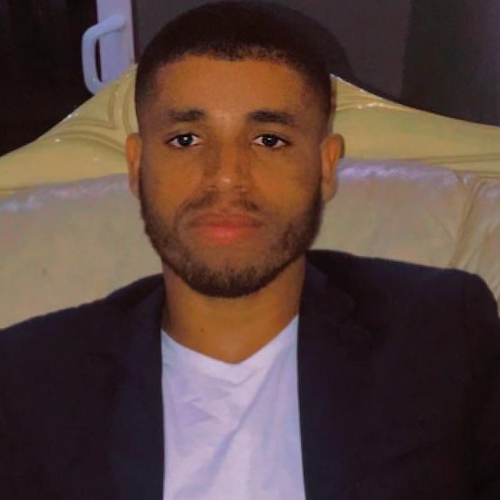
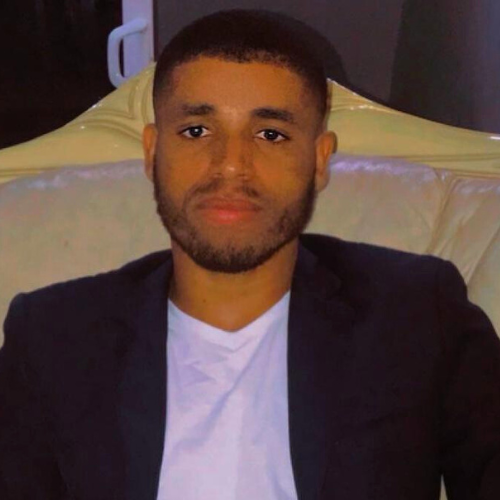
Mise à jour des images

diff --git a/index.html b/index.html
@@ -221,7 +221,7 @@
       <h2>Notre équipe</h2>
       <div class="equipe__list">
         <div class="membre">
-          <img src="ressources/images/ali.jpg" alt="Ali Houssene Silahi" class="membre__photo">
+          <img src="ressources/images/ali.png" alt="Ali Houssene Silahi" class="membre__photo">
           <h3>Ali Houssene Silahi</h3>
           <p class="membre__role">CEO & Ingénieur de données</p>
           <p class="membre__bio">Expert en valorisation de la donnée, Ali accompagne les entreprises dans la
@@ -236,7 +236,7 @@
         </div>
           -->
         <div class="membre">          
-          <img src="ressources/images/halifa.png" alt="Halifa Youssouf" class="membre__photo">
+          <img src="ressources/images/halifa-bg.png" alt="Halifa Youssouf" class="membre__photo">
           <h3>Halifa Youssouf</h3>
           <p class="membre__role">Ingénieur Analyst de données</p>
           <p class="membre__bio">Halifa accompagne les organisations dans la conception de solutions data innovantes et
@@ -244,7 +244,7 @@
         </div>
 
         <div class="membre">           
-          <img src="ressources/images/aerdine.jpg" alt="Aerdine Ibrahim" class="membre__photo">
+          <img src="ressources/images/aerdine.png" alt="Aerdine Ibrahim" class="membre__photo">
           <h3>Aerdine Ibrahim</h3>
           <p class="membre__role">Ingénieur Data Scientist</p>
           <p class="membre__bio">Aerdine accompagne les organisations dans la conception de solutions data innovantes et
